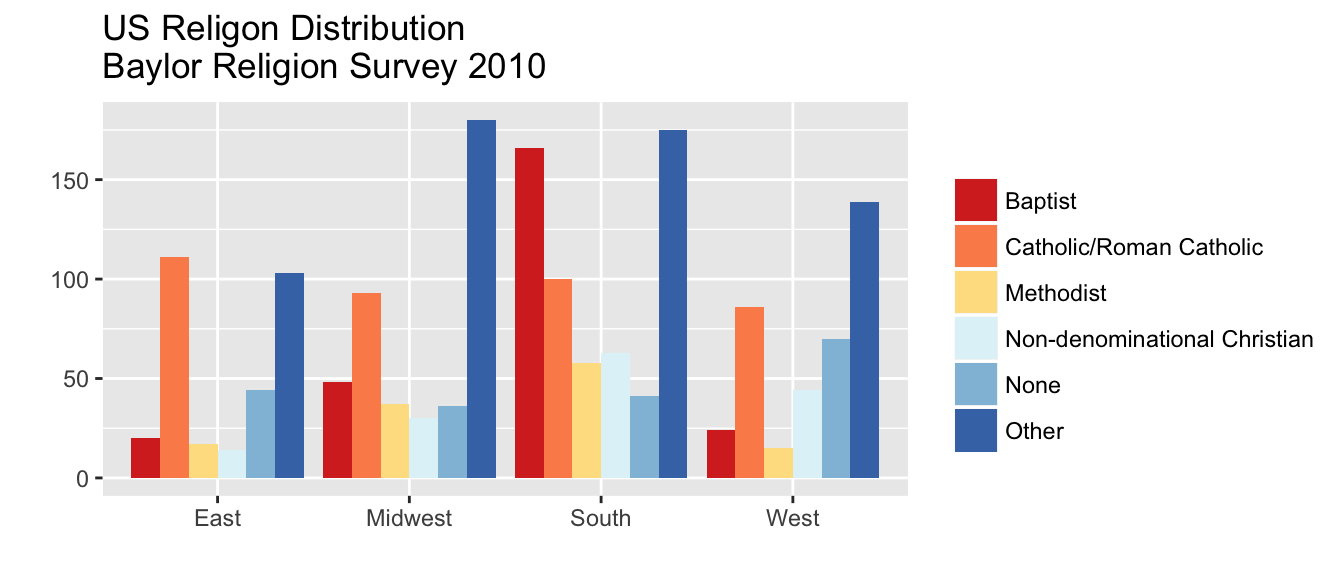
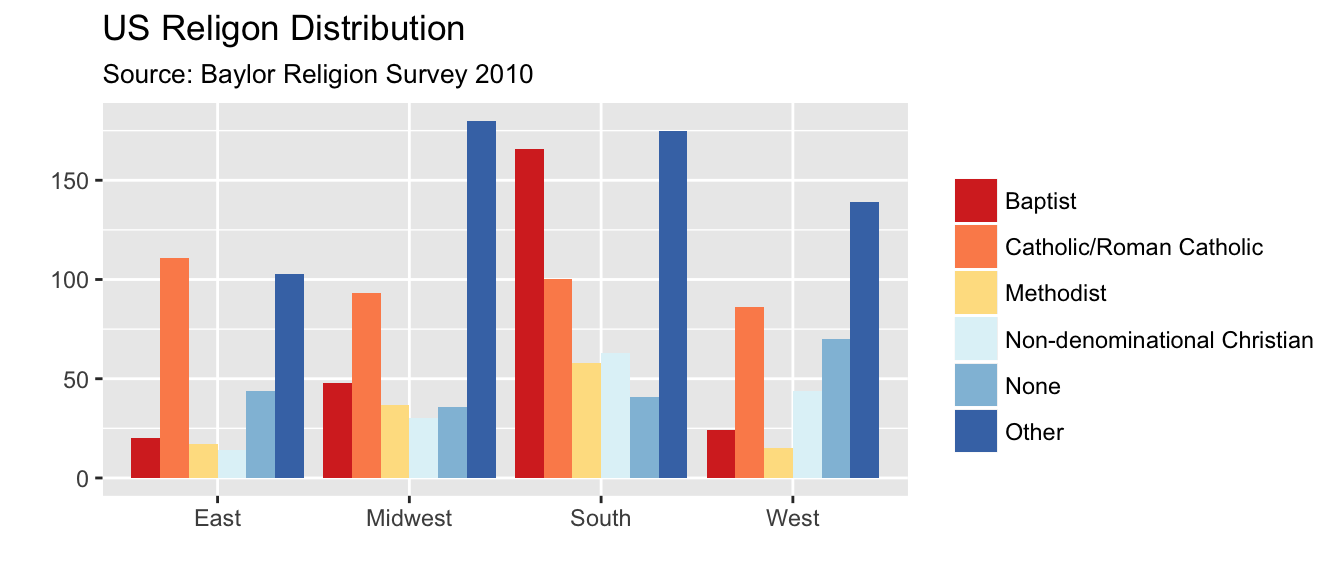
editing the baylor post graphs a bit

diff --git a/public/code/baylor/index.html b/public/code/baylor/index.html
@@ -61,11 +61,11 @@ require(&quot;tidyverse&quot;) require(&quot;foreign&quot;) require(&quot;psych&
 
 
     
-    <link rel="stylesheet" href="/css/reset.css?t=2018-05-17%2012%3a30%3a57.935957%20-0400%20EDT%20m%3d%2b0.660776781">
-    <link rel="stylesheet" href="/css/pygments.css?t=2018-05-17%2012%3a30%3a57.935957%20-0400%20EDT%20m%3d%2b0.660776781">
-    <link rel="stylesheet" href="/css/main.css?t=2018-05-17%2012%3a30%3a57.935957%20-0400%20EDT%20m%3d%2b0.660776781">
+    <link rel="stylesheet" href="/css/reset.css?t=2018-05-17%2013%3a00%3a42.643452%20-0400%20EDT%20m%3d%2b0.411954966">
+    <link rel="stylesheet" href="/css/pygments.css?t=2018-05-17%2013%3a00%3a42.643452%20-0400%20EDT%20m%3d%2b0.411954966">
+    <link rel="stylesheet" href="/css/main.css?t=2018-05-17%2013%3a00%3a42.643452%20-0400%20EDT%20m%3d%2b0.411954966">
     
-        <link rel="stylesheet" href="/css/override.css?t=2018-05-17%2012%3a30%3a57.935957%20-0400%20EDT%20m%3d%2b0.660776781">
+        <link rel="stylesheet" href="/css/override.css?t=2018-05-17%2013%3a00%3a42.643452%20-0400%20EDT%20m%3d%2b0.411954966">
     
 
 
@@ -267,19 +267,22 @@ bay3$rel_family &lt;- recode(bay3$rel_family, (&quot;&#39;No religion [Skip to Q
 <p>Doing a quick table, we can double-check out new coding with the original values. The old categories from bay2 will be on the rows, and our new six-category variable will be on the columns.[Output omitted]</p>
 <pre class="r"><code>table(bay2$rel_family, bay3$rel_family)</code></pre>
 <p>Now that our variables are correctly coded / collapsed, we can plot some descriptives. The data we want to plot can be summarized using <code>table(bay3$region, bay3$rel_family)</code> but this is still a bit hard to decipher. The following ggplot specifies the dataset <code>bay3</code>, the variable to plot <code>aes(region)</code>, the geometric object to use <code>geom_bar()</code>. This is saved as an object named “final”.</p>
-<p>A few other specifications below:<br />
-* <code>aes(fill=rel_family)</code> = color (fill) the bars according to the variable rel_family.<br />
-* <code>stat = &quot;count&quot;</code> = the y-axis for this bar graph will be the raw counts of each category.<br />
-* <code>position = &quot;dodge&quot;</code> = display the bars side by side.<br />
-* <code>scale_fill_brewer()</code> = use the RColorBrewer package to use predefined color palettes. In this case, the “RdYlBu” palette. <code>name = &quot;&quot;</code> removes the legend title.<br />
-* <code>labs()</code> = set main title and axes titles.</p>
+<p>A few other specifications below:</p>
+<ul>
+<li><p><code>aes(fill=rel_family)</code> = color (fill) the bars according to the variable rel_family.</p></li>
+<li><p><code>stat = &quot;count&quot;</code> = the y-axis for this bar graph will be the raw counts of each category.</p></li>
+<li><p><code>position = &quot;dodge&quot;</code> = display the bars side by side.</p></li>
+<li><p><code>scale_fill_brewer()</code> = use the RColorBrewer package to use predefined color palettes. In this case, the “RdYlBu” palette. <code>name = &quot;&quot;</code> removes the legend title.</p></li>
+<li><p><code>labs()</code> = set main title and axes titles.</p></li>
+</ul>
 <pre class="r"><code>final &lt;- ggplot(bay3, aes(region)) + 
   geom_bar(aes(fill=rel_family), stat = &quot;count&quot;, position=&quot;dodge&quot;) +
   scale_fill_brewer(palette= &quot;RdYlBu&quot;, name=&quot;&quot;) + 
-  labs(x=&quot;&quot;, y=&quot;&quot;, title=&quot;US Religon Distribution\nBaylor Religion Survey 2010&quot;)
+  labs(x=&quot;&quot;, y=&quot;&quot;, title=&quot;US Religon Distribution&quot;, subtitle= &quot;Source: Baylor Religion Survey 2010&quot;)
 final</code></pre>
-<p><img src="/code/baylor_files/figure-html/unnamed-chunk-11-1.png" width="672" /></p>
-<p>Not bad, but lets do one more round of editing. When collapsing categories into “other” we made a category that dominates most regions of the US, somewhat obscuring our story. Rather than take this data out, let’s use color to de-emphasize it. To do so, let’s add a dark grey to our color scheme.</p>
+<p><img src="/code/baylor_files/figure-html/unnamed-chunk-11-1.png" width="672" /> Maybe we want to order our regional categories in a more geographical order, so West is on the left, and East is on the right. This can be accomplished by reordering the factor levels.</p>
+<pre class="r"><code>bay3$region &lt;- factor(bay3$region, levels = c(&quot;West&quot;,&quot;Midwest&quot;,&quot;South&quot;, &quot;East&quot;))</code></pre>
+<p>Lets do one more round of editing. When collapsing categories into “other” we made a category that dominates most regions of the US, somewhat obscuring our story. Rather than take this data out, let’s use color to de-emphasize it. To do so, let’s add a dark grey to our color scheme.</p>
 <p>First, the <code>brewer.pal()</code> command allows you to save a vector of colors. Below we’ve taked 5 colors from the “RdYlBu” palette and saved it as a vector named “colors.” Second, let’s add “grey40” to this vector. Now our <code>colors</code> vector is a list of six colors with the last one being a dark grey color.</p>
 <pre class="r"><code>colors &lt;- brewer.pal(5, &quot;RdYlBu&quot;)
 colors &lt;- c(colors, &quot;grey40&quot;)</code></pre>
@@ -287,12 +290,13 @@ colors &lt;- c(colors, &quot;grey40&quot;)</code></pre>
 <pre class="r"><code>final2 &lt;- ggplot(bay3, aes(region)) + 
   geom_bar(aes(fill=rel_family), stat = &quot;count&quot;, position=&quot;dodge&quot;) +
   scale_fill_manual(values=colors, name=&quot;&quot;) + 
-  labs(x=&quot;&quot;, y=&quot;&quot;, title=&quot;US Religon Distribution\nBaylor Religion Survey 2010&quot;)
+  labs(x=&quot;&quot;, y=&quot;&quot;, title=&quot;US Religon Distribution&quot;, subtitle= &quot;Source: Baylor Religion Survey 2010&quot;)
 final2</code></pre>
-<p><img src="/code/baylor_files/figure-html/unnamed-chunk-13-1.png" width="672" /></p>
+<p><img src="/code/baylor_files/figure-html/unnamed-chunk-14-1.png" width="672" /></p>
 <p>If you want to super-customize your graph, you can save various themes or templates to use with ggplot. Below I’ve created a dark template named <code>johntheme1</code>.</p>
 <pre class="r"><code>johntheme1 &lt;- theme(text=element_text(family=&quot;Times New Roman&quot;), # New font
         plot.title = element_text(hjust = 0.5), # Centered title
+        plot.subtitle = element_text(hjust = 0.5), # Centered subtitle
         plot.background = element_rect(fill=&quot;black&quot;), # Black background
         panel.background = element_rect(fill=&quot;gray20&quot;), # Dark grey panel background
         panel.grid.minor = element_line(color=&quot;black&quot;), # Hide grid lines
@@ -304,7 +308,7 @@ final2</code></pre>
         legend.key = element_rect(fill=&quot;black&quot;, color=&quot;black&quot;)) #Squares/borders of legend black</code></pre>
 <p>Using our saved graph, we can add our new custom theme.</p>
 <pre class="r"><code>final2 + johntheme1</code></pre>
-<p><img src="/code/baylor_files/figure-html/unnamed-chunk-15-1.png" width="672" /></p>
+<p><img src="/code/baylor_files/figure-html/unnamed-chunk-16-1.png" width="672" /></p>
 <p>A nice graph! Export as a JPG using the <code>ggsave()</code> command.</p>
 <pre class="r"><code>ggsave(filename=&quot;/users/johnbernau/Desktop/Baylor2010.jpg&quot;, final2, width=11.25, height=7, units=&quot;in&quot;)</code></pre>
 <hr />

diff --git a/content/code/baylor.html b/content/code/baylor.html
@@ -84,19 +84,22 @@ bay3$rel_family &lt;- recode(bay3$rel_family, (&quot;&#39;No religion [Skip to Q
 <p>Doing a quick table, we can double-check out new coding with the original values. The old categories from bay2 will be on the rows, and our new six-category variable will be on the columns.[Output omitted]</p>
 <pre class="r"><code>table(bay2$rel_family, bay3$rel_family)</code></pre>
 <p>Now that our variables are correctly coded / collapsed, we can plot some descriptives. The data we want to plot can be summarized using <code>table(bay3$region, bay3$rel_family)</code> but this is still a bit hard to decipher. The following ggplot specifies the dataset <code>bay3</code>, the variable to plot <code>aes(region)</code>, the geometric object to use <code>geom_bar()</code>. This is saved as an object named “final”.</p>
-<p>A few other specifications below:<br />
-* <code>aes(fill=rel_family)</code> = color (fill) the bars according to the variable rel_family.<br />
-* <code>stat = &quot;count&quot;</code> = the y-axis for this bar graph will be the raw counts of each category.<br />
-* <code>position = &quot;dodge&quot;</code> = display the bars side by side.<br />
-* <code>scale_fill_brewer()</code> = use the RColorBrewer package to use predefined color palettes. In this case, the “RdYlBu” palette. <code>name = &quot;&quot;</code> removes the legend title.<br />
-* <code>labs()</code> = set main title and axes titles.</p>
+<p>A few other specifications below:</p>
+<ul>
+<li><p><code>aes(fill=rel_family)</code> = color (fill) the bars according to the variable rel_family.</p></li>
+<li><p><code>stat = &quot;count&quot;</code> = the y-axis for this bar graph will be the raw counts of each category.</p></li>
+<li><p><code>position = &quot;dodge&quot;</code> = display the bars side by side.</p></li>
+<li><p><code>scale_fill_brewer()</code> = use the RColorBrewer package to use predefined color palettes. In this case, the “RdYlBu” palette. <code>name = &quot;&quot;</code> removes the legend title.</p></li>
+<li><p><code>labs()</code> = set main title and axes titles.</p></li>
+</ul>
 <pre class="r"><code>final &lt;- ggplot(bay3, aes(region)) + 
   geom_bar(aes(fill=rel_family), stat = &quot;count&quot;, position=&quot;dodge&quot;) +
   scale_fill_brewer(palette= &quot;RdYlBu&quot;, name=&quot;&quot;) + 
-  labs(x=&quot;&quot;, y=&quot;&quot;, title=&quot;US Religon Distribution\nBaylor Religion Survey 2010&quot;)
+  labs(x=&quot;&quot;, y=&quot;&quot;, title=&quot;US Religon Distribution&quot;, subtitle= &quot;Source: Baylor Religion Survey 2010&quot;)
 final</code></pre>
-<p><img src="/code/baylor_files/figure-html/unnamed-chunk-11-1.png" width="672" /></p>
-<p>Not bad, but lets do one more round of editing. When collapsing categories into “other” we made a category that dominates most regions of the US, somewhat obscuring our story. Rather than take this data out, let’s use color to de-emphasize it. To do so, let’s add a dark grey to our color scheme.</p>
+<p><img src="/code/baylor_files/figure-html/unnamed-chunk-11-1.png" width="672" /> Maybe we want to order our regional categories in a more geographical order, so West is on the left, and East is on the right. This can be accomplished by reordering the factor levels.</p>
+<pre class="r"><code>bay3$region &lt;- factor(bay3$region, levels = c(&quot;West&quot;,&quot;Midwest&quot;,&quot;South&quot;, &quot;East&quot;))</code></pre>
+<p>Lets do one more round of editing. When collapsing categories into “other” we made a category that dominates most regions of the US, somewhat obscuring our story. Rather than take this data out, let’s use color to de-emphasize it. To do so, let’s add a dark grey to our color scheme.</p>
 <p>First, the <code>brewer.pal()</code> command allows you to save a vector of colors. Below we’ve taked 5 colors from the “RdYlBu” palette and saved it as a vector named “colors.” Second, let’s add “grey40” to this vector. Now our <code>colors</code> vector is a list of six colors with the last one being a dark grey color.</p>
 <pre class="r"><code>colors &lt;- brewer.pal(5, &quot;RdYlBu&quot;)
 colors &lt;- c(colors, &quot;grey40&quot;)</code></pre>
@@ -104,12 +107,13 @@ colors &lt;- c(colors, &quot;grey40&quot;)</code></pre>
 <pre class="r"><code>final2 &lt;- ggplot(bay3, aes(region)) + 
   geom_bar(aes(fill=rel_family), stat = &quot;count&quot;, position=&quot;dodge&quot;) +
   scale_fill_manual(values=colors, name=&quot;&quot;) + 
-  labs(x=&quot;&quot;, y=&quot;&quot;, title=&quot;US Religon Distribution\nBaylor Religion Survey 2010&quot;)
+  labs(x=&quot;&quot;, y=&quot;&quot;, title=&quot;US Religon Distribution&quot;, subtitle= &quot;Source: Baylor Religion Survey 2010&quot;)
 final2</code></pre>
-<p><img src="/code/baylor_files/figure-html/unnamed-chunk-13-1.png" width="672" /></p>
+<p><img src="/code/baylor_files/figure-html/unnamed-chunk-14-1.png" width="672" /></p>
 <p>If you want to super-customize your graph, you can save various themes or templates to use with ggplot. Below I’ve created a dark template named <code>johntheme1</code>.</p>
 <pre class="r"><code>johntheme1 &lt;- theme(text=element_text(family=&quot;Times New Roman&quot;), # New font
         plot.title = element_text(hjust = 0.5), # Centered title
+        plot.subtitle = element_text(hjust = 0.5), # Centered subtitle
         plot.background = element_rect(fill=&quot;black&quot;), # Black background
         panel.background = element_rect(fill=&quot;gray20&quot;), # Dark grey panel background
         panel.grid.minor = element_line(color=&quot;black&quot;), # Hide grid lines
@@ -121,7 +125,7 @@ final2</code></pre>
         legend.key = element_rect(fill=&quot;black&quot;, color=&quot;black&quot;)) #Squares/borders of legend black</code></pre>
 <p>Using our saved graph, we can add our new custom theme.</p>
 <pre class="r"><code>final2 + johntheme1</code></pre>
-<p><img src="/code/baylor_files/figure-html/unnamed-chunk-15-1.png" width="672" /></p>
+<p><img src="/code/baylor_files/figure-html/unnamed-chunk-16-1.png" width="672" /></p>
 <p>A nice graph! Export as a JPG using the <code>ggsave()</code> command.</p>
 <pre class="r"><code>ggsave(filename=&quot;/users/johnbernau/Desktop/Baylor2010.jpg&quot;, final2, width=11.25, height=7, units=&quot;in&quot;)</code></pre>
 <hr />

diff --git a/public/blog/ajs123_4/index.html b/public/blog/ajs123_4/index.html
@@ -59,11 +59,11 @@ Summary: The author uses ethnographic data to examine the role of emotions in th
 
 
     
-    <link rel="stylesheet" href="/css/reset.css?t=2018-05-17%2012%3a30%3a57.924411%20-0400%20EDT%20m%3d%2b0.649231260">
-    <link rel="stylesheet" href="/css/pygments.css?t=2018-05-17%2012%3a30%3a57.924411%20-0400%20EDT%20m%3d%2b0.649231260">
-    <link rel="stylesheet" href="/css/main.css?t=2018-05-17%2012%3a30%3a57.924411%20-0400%20EDT%20m%3d%2b0.649231260">
+    <link rel="stylesheet" href="/css/reset.css?t=2018-05-17%2013%3a00%3a42.629582%20-0400%20EDT%20m%3d%2b0.398086091">
+    <link rel="stylesheet" href="/css/pygments.css?t=2018-05-17%2013%3a00%3a42.629582%20-0400%20EDT%20m%3d%2b0.398086091">
+    <link rel="stylesheet" href="/css/main.css?t=2018-05-17%2013%3a00%3a42.629582%20-0400%20EDT%20m%3d%2b0.398086091">
     
-        <link rel="stylesheet" href="/css/override.css?t=2018-05-17%2012%3a30%3a57.924411%20-0400%20EDT%20m%3d%2b0.649231260">
+        <link rel="stylesheet" href="/css/override.css?t=2018-05-17%2013%3a00%3a42.629582%20-0400%20EDT%20m%3d%2b0.398086091">
     
 
 

diff --git a/public/code/congregation_size/index.html b/public/code/congregation_size/index.html
@@ -59,11 +59,11 @@ require(foreign) require(dplyr) require(tidyr) require(ggplot2) Then we’ll gra
 
 
     
-    <link rel="stylesheet" href="/css/reset.css?t=2018-05-17%2012%3a30%3a57.928618%20-0400%20EDT%20m%3d%2b0.653438069">
-    <link rel="stylesheet" href="/css/pygments.css?t=2018-05-17%2012%3a30%3a57.928618%20-0400%20EDT%20m%3d%2b0.653438069">
-    <link rel="stylesheet" href="/css/main.css?t=2018-05-17%2012%3a30%3a57.928618%20-0400%20EDT%20m%3d%2b0.653438069">
+    <link rel="stylesheet" href="/css/reset.css?t=2018-05-17%2013%3a00%3a42.633543%20-0400%20EDT%20m%3d%2b0.402046231">
+    <link rel="stylesheet" href="/css/pygments.css?t=2018-05-17%2013%3a00%3a42.633543%20-0400%20EDT%20m%3d%2b0.402046231">
+    <link rel="stylesheet" href="/css/main.css?t=2018-05-17%2013%3a00%3a42.633543%20-0400%20EDT%20m%3d%2b0.402046231">
     
-        <link rel="stylesheet" href="/css/override.css?t=2018-05-17%2012%3a30%3a57.928618%20-0400%20EDT%20m%3d%2b0.653438069">
+        <link rel="stylesheet" href="/css/override.css?t=2018-05-17%2013%3a00%3a42.633543%20-0400%20EDT%20m%3d%2b0.402046231">
     
 
 

diff --git a/public/research/country-music/index.html b/public/research/country-music/index.html
@@ -59,11 +59,11 @@ ABSTRACT: This article examines the rise of “self-references” in contemporar
 
 
     
-    <link rel="stylesheet" href="/css/reset.css?t=2018-05-17%2012%3a30%3a57.935063%20-0400%20EDT%20m%3d%2b0.659882424">
-    <link rel="stylesheet" href="/css/pygments.css?t=2018-05-17%2012%3a30%3a57.935063%20-0400%20EDT%20m%3d%2b0.659882424">
-    <link rel="stylesheet" href="/css/main.css?t=2018-05-17%2012%3a30%3a57.935063%20-0400%20EDT%20m%3d%2b0.659882424">
+    <link rel="stylesheet" href="/css/reset.css?t=2018-05-17%2013%3a00%3a42.639203%20-0400%20EDT%20m%3d%2b0.407705378">
+    <link rel="stylesheet" href="/css/pygments.css?t=2018-05-17%2013%3a00%3a42.639203%20-0400%20EDT%20m%3d%2b0.407705378">
+    <link rel="stylesheet" href="/css/main.css?t=2018-05-17%2013%3a00%3a42.639203%20-0400%20EDT%20m%3d%2b0.407705378">
     
-        <link rel="stylesheet" href="/css/override.css?t=2018-05-17%2012%3a30%3a57.935063%20-0400%20EDT%20m%3d%2b0.659882424">
+        <link rel="stylesheet" href="/css/override.css?t=2018-05-17%2013%3a00%3a42.639203%20-0400%20EDT%20m%3d%2b0.407705378">
     
 
 

diff --git a/public/research/sympathetic-leviathan/index.html b/public/research/sympathetic-leviathan/index.html
@@ -59,11 +59,11 @@ ABSTRACT: While events are central to the sociology of the state, natural disast
 
 
     
-    <link rel="stylesheet" href="/css/reset.css?t=2018-05-17%2012%3a30%3a57.942776%20-0400%20EDT%20m%3d%2b0.667595126">
-    <link rel="stylesheet" href="/css/pygments.css?t=2018-05-17%2012%3a30%3a57.942776%20-0400%20EDT%20m%3d%2b0.667595126">
-    <link rel="stylesheet" href="/css/main.css?t=2018-05-17%2012%3a30%3a57.942776%20-0400%20EDT%20m%3d%2b0.667595126">
+    <link rel="stylesheet" href="/css/reset.css?t=2018-05-17%2013%3a00%3a42.652795%20-0400%20EDT%20m%3d%2b0.421297489">
+    <link rel="stylesheet" href="/css/pygments.css?t=2018-05-17%2013%3a00%3a42.652795%20-0400%20EDT%20m%3d%2b0.421297489">
+    <link rel="stylesheet" href="/css/main.css?t=2018-05-17%2013%3a00%3a42.652795%20-0400%20EDT%20m%3d%2b0.421297489">
     
-        <link rel="stylesheet" href="/css/override.css?t=2018-05-17%2012%3a30%3a57.942776%20-0400%20EDT%20m%3d%2b0.667595126">
+        <link rel="stylesheet" href="/css/override.css?t=2018-05-17%2013%3a00%3a42.652795%20-0400%20EDT%20m%3d%2b0.421297489">
     
 
 

diff --git a/public/teaching/sor/index.html b/public/teaching/sor/index.html
@@ -59,11 +59,11 @@ This course offers an introduction to the sociological study of religion. As a d
 
 
     
-    <link rel="stylesheet" href="/css/reset.css?t=2018-05-17%2012%3a30%3a57.939742%20-0400%20EDT%20m%3d%2b0.664561471">
-    <link rel="stylesheet" href="/css/pygments.css?t=2018-05-17%2012%3a30%3a57.939742%20-0400%20EDT%20m%3d%2b0.664561471">
-    <link rel="stylesheet" href="/css/main.css?t=2018-05-17%2012%3a30%3a57.939742%20-0400%20EDT%20m%3d%2b0.664561471">
+    <link rel="stylesheet" href="/css/reset.css?t=2018-05-17%2013%3a00%3a42.64767%20-0400%20EDT%20m%3d%2b0.416172861">
+    <link rel="stylesheet" href="/css/pygments.css?t=2018-05-17%2013%3a00%3a42.64767%20-0400%20EDT%20m%3d%2b0.416172861">
+    <link rel="stylesheet" href="/css/main.css?t=2018-05-17%2013%3a00%3a42.64767%20-0400%20EDT%20m%3d%2b0.416172861">
     
-        <link rel="stylesheet" href="/css/override.css?t=2018-05-17%2012%3a30%3a57.939742%20-0400%20EDT%20m%3d%2b0.664561471">
+        <link rel="stylesheet" href="/css/override.css?t=2018-05-17%2013%3a00%3a42.64767%20-0400%20EDT%20m%3d%2b0.416172861">
     
 
 

diff --git a/public/blog/cherlin2010/index.html b/public/blog/cherlin2010/index.html
@@ -63,11 +63,11 @@ Copyright &copy; 2018 John A. Bernau " />
 
 
     
-    <link rel="stylesheet" href="/css/reset.css?t=2018-05-17%2012%3a30%3a57.924379%20-0400%20EDT%20m%3d%2b0.649199205">
-    <link rel="stylesheet" href="/css/pygments.css?t=2018-05-17%2012%3a30%3a57.924379%20-0400%20EDT%20m%3d%2b0.649199205">
-    <link rel="stylesheet" href="/css/main.css?t=2018-05-17%2012%3a30%3a57.924379%20-0400%20EDT%20m%3d%2b0.649199205">
+    <link rel="stylesheet" href="/css/reset.css?t=2018-05-17%2013%3a00%3a42.630346%20-0400%20EDT%20m%3d%2b0.398849608">
+    <link rel="stylesheet" href="/css/pygments.css?t=2018-05-17%2013%3a00%3a42.630346%20-0400%20EDT%20m%3d%2b0.398849608">
+    <link rel="stylesheet" href="/css/main.css?t=2018-05-17%2013%3a00%3a42.630346%20-0400%20EDT%20m%3d%2b0.398849608">
     
-        <link rel="stylesheet" href="/css/override.css?t=2018-05-17%2012%3a30%3a57.924379%20-0400%20EDT%20m%3d%2b0.649199205">
+        <link rel="stylesheet" href="/css/override.css?t=2018-05-17%2013%3a00%3a42.630346%20-0400%20EDT%20m%3d%2b0.398849608">
     
 
 

diff --git a/public/xcode/index.html b/public/xcode/index.html
@@ -69,11 +69,11 @@ Copyright &copy; 2018 John A. Bernau " />
 
 
     
-    <link rel="stylesheet" href="/css/reset.css?t=2018-05-17%2012%3a30%3a57.930831%20-0400%20EDT%20m%3d%2b0.655650295">
-    <link rel="stylesheet" href="/css/pygments.css?t=2018-05-17%2012%3a30%3a57.930831%20-0400%20EDT%20m%3d%2b0.655650295">
-    <link rel="stylesheet" href="/css/main.css?t=2018-05-17%2012%3a30%3a57.930831%20-0400%20EDT%20m%3d%2b0.655650295">
+    <link rel="stylesheet" href="/css/reset.css?t=2018-05-17%2013%3a00%3a42.634094%20-0400%20EDT%20m%3d%2b0.402597981">
+    <link rel="stylesheet" href="/css/pygments.css?t=2018-05-17%2013%3a00%3a42.634094%20-0400%20EDT%20m%3d%2b0.402597981">
+    <link rel="stylesheet" href="/css/main.css?t=2018-05-17%2013%3a00%3a42.634094%20-0400%20EDT%20m%3d%2b0.402597981">
     
-        <link rel="stylesheet" href="/css/override.css?t=2018-05-17%2012%3a30%3a57.930831%20-0400%20EDT%20m%3d%2b0.655650295">
+        <link rel="stylesheet" href="/css/override.css?t=2018-05-17%2013%3a00%3a42.634094%20-0400%20EDT%20m%3d%2b0.402597981">
     
 
 

diff --git a/public/xteaching/index.html b/public/xteaching/index.html
@@ -83,11 +83,11 @@ SOC 389: Cont. Chinese Culture" />
 
 
     
-    <link rel="stylesheet" href="/css/reset.css?t=2018-05-17%2012%3a30%3a57.940101%20-0400%20EDT%20m%3d%2b0.664920388">
-    <link rel="stylesheet" href="/css/pygments.css?t=2018-05-17%2012%3a30%3a57.940101%20-0400%20EDT%20m%3d%2b0.664920388">
-    <link rel="stylesheet" href="/css/main.css?t=2018-05-17%2012%3a30%3a57.940101%20-0400%20EDT%20m%3d%2b0.664920388">
+    <link rel="stylesheet" href="/css/reset.css?t=2018-05-17%2013%3a00%3a42.648989%20-0400%20EDT%20m%3d%2b0.417491483">
+    <link rel="stylesheet" href="/css/pygments.css?t=2018-05-17%2013%3a00%3a42.648989%20-0400%20EDT%20m%3d%2b0.417491483">
+    <link rel="stylesheet" href="/css/main.css?t=2018-05-17%2013%3a00%3a42.648989%20-0400%20EDT%20m%3d%2b0.417491483">
     
-        <link rel="stylesheet" href="/css/override.css?t=2018-05-17%2012%3a30%3a57.940101%20-0400%20EDT%20m%3d%2b0.664920388">
+        <link rel="stylesheet" href="/css/override.css?t=2018-05-17%2013%3a00%3a42.648989%20-0400%20EDT%20m%3d%2b0.417491483">
     
 
 

diff --git a/public/code/dataviz3/index.html b/public/code/dataviz3/index.html
@@ -71,11 +71,11 @@ Part 3 includes:
 
 
     
-    <link rel="stylesheet" href="/css/reset.css?t=2018-05-17%2012%3a30%3a57.932075%20-0400%20EDT%20m%3d%2b0.656894216">
-    <link rel="stylesheet" href="/css/pygments.css?t=2018-05-17%2012%3a30%3a57.932075%20-0400%20EDT%20m%3d%2b0.656894216">
-    <link rel="stylesheet" href="/css/main.css?t=2018-05-17%2012%3a30%3a57.932075%20-0400%20EDT%20m%3d%2b0.656894216">
+    <link rel="stylesheet" href="/css/reset.css?t=2018-05-17%2013%3a00%3a42.637672%20-0400%20EDT%20m%3d%2b0.406173717">
+    <link rel="stylesheet" href="/css/pygments.css?t=2018-05-17%2013%3a00%3a42.637672%20-0400%20EDT%20m%3d%2b0.406173717">
+    <link rel="stylesheet" href="/css/main.css?t=2018-05-17%2013%3a00%3a42.637672%20-0400%20EDT%20m%3d%2b0.406173717">
     
-        <link rel="stylesheet" href="/css/override.css?t=2018-05-17%2012%3a30%3a57.932075%20-0400%20EDT%20m%3d%2b0.656894216">
+        <link rel="stylesheet" href="/css/override.css?t=2018-05-17%2013%3a00%3a42.637672%20-0400%20EDT%20m%3d%2b0.406173717">
     
 
 

diff --git a/public/code/dataviz4/index.html b/public/code/dataviz4/index.html
@@ -69,11 +69,11 @@ Part 4 includes:
 
 
     
-    <link rel="stylesheet" href="/css/reset.css?t=2018-05-17%2012%3a30%3a57.936689%20-0400%20EDT%20m%3d%2b0.661508223">
-    <link rel="stylesheet" href="/css/pygments.css?t=2018-05-17%2012%3a30%3a57.936689%20-0400%20EDT%20m%3d%2b0.661508223">
-    <link rel="stylesheet" href="/css/main.css?t=2018-05-17%2012%3a30%3a57.936689%20-0400%20EDT%20m%3d%2b0.661508223">
+    <link rel="stylesheet" href="/css/reset.css?t=2018-05-17%2013%3a00%3a42.637537%20-0400%20EDT%20m%3d%2b0.406037329">
+    <link rel="stylesheet" href="/css/pygments.css?t=2018-05-17%2013%3a00%3a42.637537%20-0400%20EDT%20m%3d%2b0.406037329">
+    <link rel="stylesheet" href="/css/main.css?t=2018-05-17%2013%3a00%3a42.637537%20-0400%20EDT%20m%3d%2b0.406037329">
     
-        <link rel="stylesheet" href="/css/override.css?t=2018-05-17%2012%3a30%3a57.936689%20-0400%20EDT%20m%3d%2b0.661508223">
+        <link rel="stylesheet" href="/css/override.css?t=2018-05-17%2013%3a00%3a42.637537%20-0400%20EDT%20m%3d%2b0.406037329">
     
 
 
